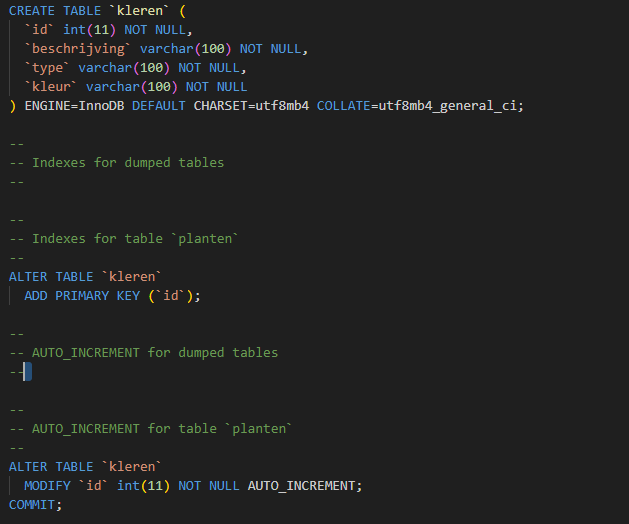
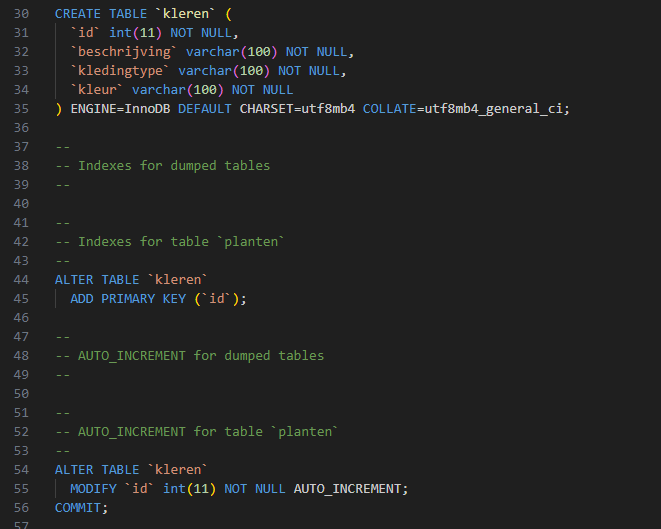
normaliseren

diff --git a/04 normaliseren/01 eigennaar.md b/04 normaliseren/01 eigennaar.md
@@ -1,0 +1,50 @@
+
+## opstarten
+
+- maak een file aan in de sql directory:
+    - `04 eigenaar.sql`
+
+## huisdieren
+
+- bekijk de huisdieren tabel nogmaals
+    - zie je die eigenaar?
+        - dat is een persoon
+            - eigenlijk hoort die in een eigen tabel
+
+> STEL: we willen meer data over de eigenaar:
+> - leeftijd, voornaam en achternaam
+> - wat gebeurt er dan?
+
+## zien
+
+- Kijk naar het plaatje hieronder
+    - hier hebben we de data in dezelfde table gezet
+> ![](img/plat.PNG)
+    - zie je dat de data er 2 keer instaat?
+
+
+> UITLEG
+> Dit neemt extra veel data in beslag en is foutgevoelig.  
+> *DUS* als we de eigenaar in een aparte tabel zetten kunnen we ook data van de eigenaar daar in zetten, en staat het niet dubbel
+
+## Huisdiereigenaar Tabel
+
+- maak een nieuwe tabel 
+    - geef de tabel de naam `huisdiereigenaar`
+    - geef de tabel de volgende colommen:
+        - id, INT 
+        - voornaam, varchar(120)
+        - achternaam, varchar(120)
+        - leeftijd, INT 
+- exporteer de nieuwe tabel
+    - zet die SQL in `04 eigenaar.sql`
+
+## Data
+
+- maak nu voor elke `eigenaar` in `huisdieren` een rij in `huisdiereigenaar`
+    - zet de insert statements ook in `04 eigenaar.sql`
+
+## klaar?
+
+- commit & push naar je git
+            

diff --git a/04 normaliseren/03 update.md b/04 normaliseren/03 update.md
@@ -1,0 +1,28 @@
+## update
+
+- kijk nogmaals naar jouw data:
+    > ![](img/alterresult.PNG)
+- eigenaarid `0`? klopt dat? nope
+    - we gaan nu update statements gebruiken om dit te repareren
+        - bekijk jouw eigenaar tabel
+        > ![](img/eigenaar.PNG)
+
+- bedenk welke huisdieren welke eigenaren hebben en zoek de eigennaarid (id in de eigenaar colom)
+
+> Als wij flappie de eigennaar `edgard` willen geven doen we dit:
+> ![](img/flappie.PNG)
+
+- zorg dat al jouw huisdieren weer een eigenaar krijgen met de update statement
+
+## EXTRA: andere manier
+
+- deze is wat ingewikkelder maar dit is voor ons wat leesbaarder
+    > maar is wel LANGZAMER voor de computer
+> ![](img/subselect.PNG)
+- maak nu update statements die het op de manier hierboven doen
+
+
+## klaar?
+
+- commit & push naar je git
+            

diff --git a/02 data/02 select.md b/02 data/02 select.md
@@ -38,18 +38,18 @@ Dan krijgen we:
 
 - kopieer de eerste SQL regel (`met naam`) en plak die weer in `02 huisdierselect.sql`
     - nu heb je 3 regels
-        - verander van de 3de `naam` nu in `naam,eigennaar`
+        - verander van de 3de `naam` nu in `naam,eigenaar`
         - probeer deze in `phpmyadmin`:
         > ![](img/selectcol.PNG)
 - maak nog 1 regel, en zorg dat je:
     - 3 andere colommen selecteerd
-        - dus `niet` naam en eigennaar
+        - dus `niet` naam en eigenaar
         - probeer je nieuwe statement in `phpmyadmin`
         
 ## volgorde
 
 - draai nu de colommen om
-    > bijvoorbeeld `naam,eigennaar` wordt `eigennaar,naam`
+    > bijvoorbeeld `naam,eigenaar` wordt `eigenaar,naam`
     - kijk wat er gebeurt
 
 ## klaar?

diff --git a/01 opstarten/03tabel aanmaken.md b/01 opstarten/03tabel aanmaken.md
@@ -15,7 +15,7 @@
 >   - `colommen` zijn `eigenschappen` van het `ding` wat in de `table` komt
 > voor onze huisdieren gebruiken we de `volgende` eigenschappen:
 >   - `naam`
->   - `eigennaar`
+>   - `eigenaar`
 >   - `typedier`
 >   - `leeftijd`
 >   - `geboortedatum`
@@ -53,7 +53,7 @@
     - zet `Length` voor nu even op `150`
         > de naam mag nu maximaal `150` letters/cijfers (*characters*) bevatten
 - maak nu voor de rest ook colommen aan:
->   - `eigennaar` (varchar van 150)
+>   - `eigenaar` (varchar van 150)
 >   - `typedier` (varchar van 80)
 >   - `leeftijd` (int)
 >   - `geboortedatum` (date)

diff --git a/03 where/02 where and.md b/03 where/02 where and.md
@@ -39,7 +39,7 @@ nu krijg je:
 zet de volgende data in je huisdieren tabel:
 
 ```SQL
-INSERT INTO `huisdieren` (`id`, `naam`, `eigennaar`, `typedier`, `leeftijd`, `geboortedatum`) 
+INSERT INTO `huisdieren` (`id`, `naam`, `eigenaar`, `typedier`, `leeftijd`, `geboortedatum`) 
 VALUES 
 (NULL, 'koning hamster', 'joep', 'hamster', '1', '2024-02-01'),
 (NULL, 'miss fluffy', 'marije', 'hamster', '2', '2024-02-01'),

diff --git a/04 normaliseren/02 koppelen.md b/04 normaliseren/02 koppelen.md
@@ -1,0 +1,18 @@
+## 2 tabellen
+
+Nu hebben we 2 tabellen:
+- eigenaar
+- huisdieren
+
+## de eigenaar aan de huisdieren koppelen
+
+> in huisdieren staat nu nog de colom `eigenaar` 
+> die moet weg!
+
+- maak een nieuwe file:
+    - `alterhuisdier.sql`
+        - daar zetten we het volgende in:
+        > ![](img/alter.PNG)
+        - dan krijg je:
+        > ![](img/alterresult.PNG)
+

diff --git a/03 where/03 where or.md b/03 where/03 where or.md
@@ -34,7 +34,7 @@ OF vertaald naar OR in het engels. net als de AND kunnen we die gebruiken
 
 - zet deze data daarin:
 ```SQL
-INSERT INTO `kleren` (`id`, `beschrijving`, `type`, `kleur`)
+INSERT INTO `kleren` (`id`, `beschrijving`, `kledingtype`, `kleur`)
  VALUES 
  (NULL, 'olymp overhemd', 'overhemd', 'wit'),
  (NULL, 'jakes overhemd', 'overhemd', 'blauw'),
